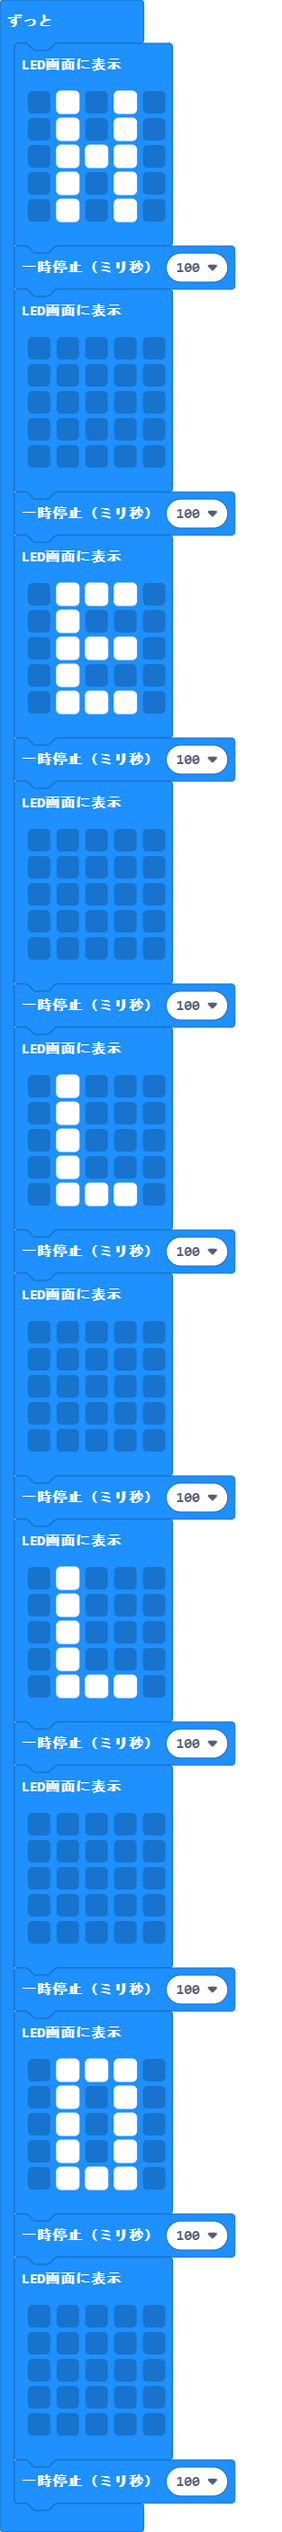
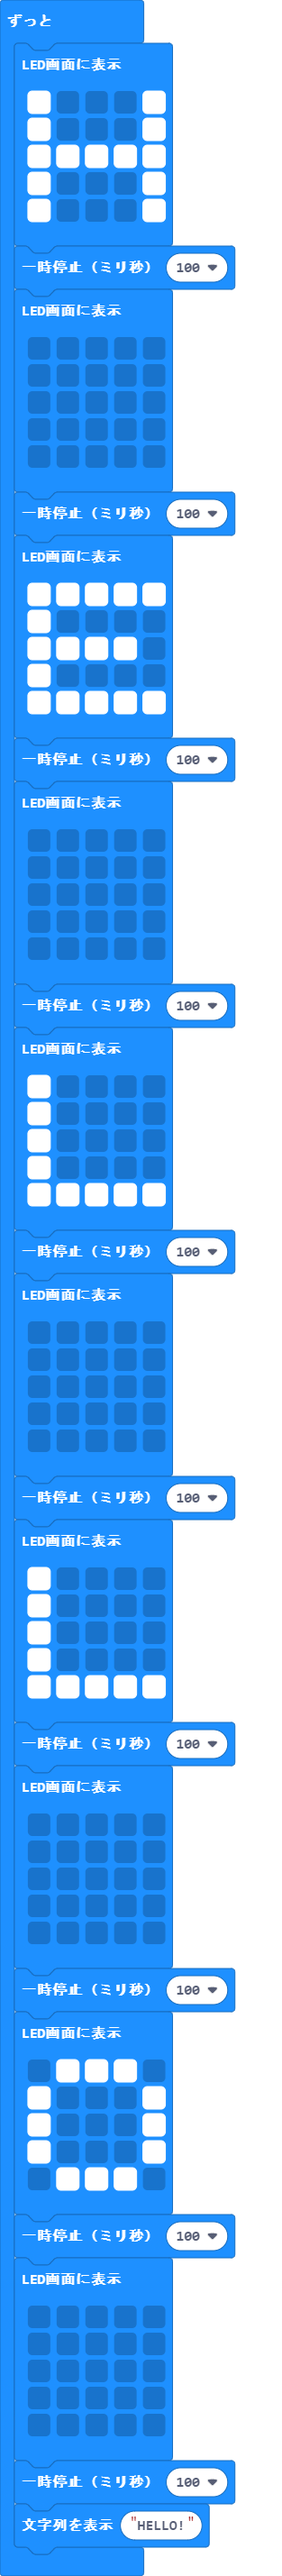
更新 main.blocks, main.ts

Changed region(s): [[0.0575, 0.0, 0.8339, 0.9907]]

diff --git a/main.ts b/main.ts
@@ -1,10 +1,58 @@
 basic.forever(function () {
     basic.showLeds(`
-        . # . # .
-        . # . # .
-        . # # # .
-        . # . # .
-        . # . # .
+        # . . . #
+        # . . . #
+        # # # # #
+        # . . . #
+        # . . . #
+        `)
+    basic.pause(100)
+    basic.showLeds(`
+        . . . . .
+        . . . . .
+        . . . . .
+        . . . . .
+        . . . . .
+        `)
+    basic.pause(100)
+    basic.showLeds(`
+        # # # # #
+        # . . . .
+        # # # # .
+        # . . . .
+        # # # # #
+        `)
+    basic.pause(100)
+    basic.showLeds(`
+        . . . . .
+        . . . . .
+        . . . . .
+        . . . . .
+        . . . . .
+        `)
+    basic.pause(100)
+    basic.showLeds(`
+        # . . . .
+        # . . . .
+        # . . . .
+        # . . . .
+        # # # # #
+        `)
+    basic.pause(100)
+    basic.showLeds(`
+        . . . . .
+        . . . . .
+        . . . . .
+        . . . . .
+        . . . . .
+        `)
+    basic.pause(100)
+    basic.showLeds(`
+        # . . . .
+        # . . . .
+        # . . . .
+        # . . . .
+        # # # # #
         `)
     basic.pause(100)
     basic.showLeds(`
@@ -17,25 +65,9 @@ basic.forever(function () {
     basic.pause(100)
     basic.showLeds(`
         . # # # .
-        . # . . .
-        . # # # .
-        . # . . .
-        . # # # .
-        `)
-    basic.pause(100)
-    basic.showLeds(`
-        . . . . .
-        . . . . .
-        . . . . .
-        . . . . .
-        . . . . .
-        `)
-    basic.pause(100)
-    basic.showLeds(`
-        . # . . .
-        . # . . .
-        . # . . .
-        . # . . .
+        # . . . #
+        # . . . #
+        # . . . #
         . # # # .
         `)
     basic.pause(100)
@@ -47,36 +79,5 @@ basic.forever(function () {
         . . . . .
         `)
     basic.pause(100)
-    basic.showLeds(`
-        . # . . .
-        . # . . .
-        . # . . .
-        . # . . .
-        . # # # .
-        `)
-    basic.pause(100)
-    basic.showLeds(`
-        . . . . .
-        . . . . .
-        . . . . .
-        . . . . .
-        . . . . .
-        `)
-    basic.pause(100)
-    basic.showLeds(`
-        . # # # .
-        . # . # .
-        . # . # .
-        . # . # .
-        . # # # .
-        `)
-    basic.pause(100)
-    basic.showLeds(`
-        . . . . .
-        . . . . .
-        . . . . .
-        . . . . .
-        . . . . .
-        `)
-    basic.pause(100)
+    basic.showString("HELLO!")
 })
